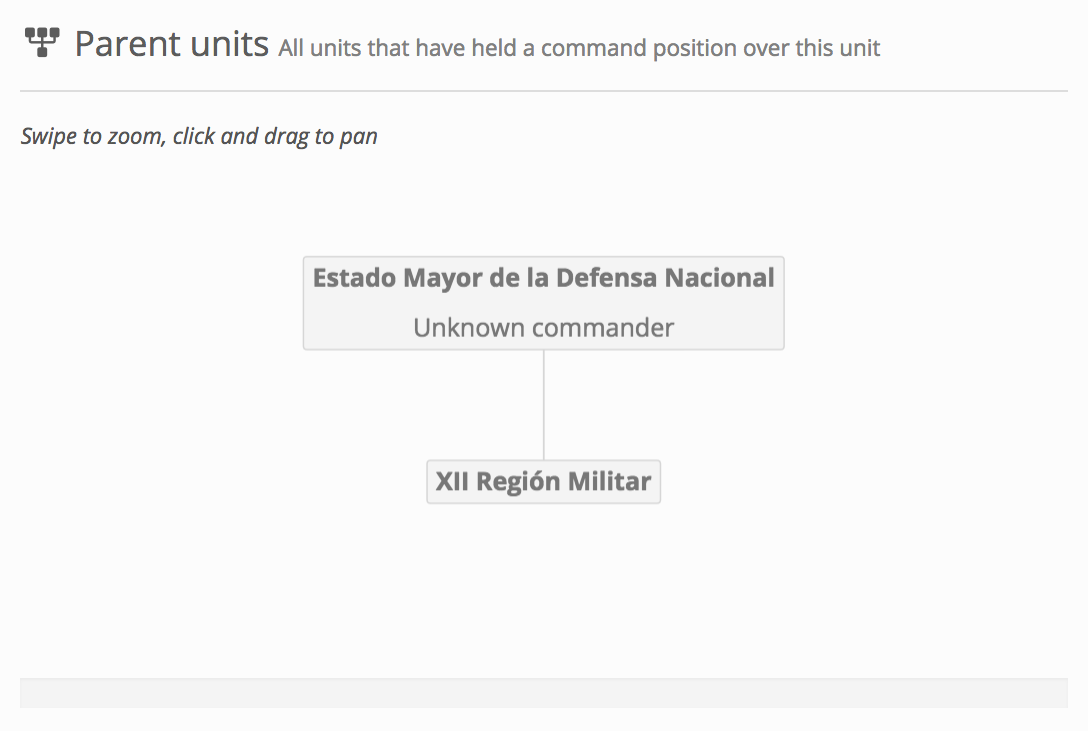
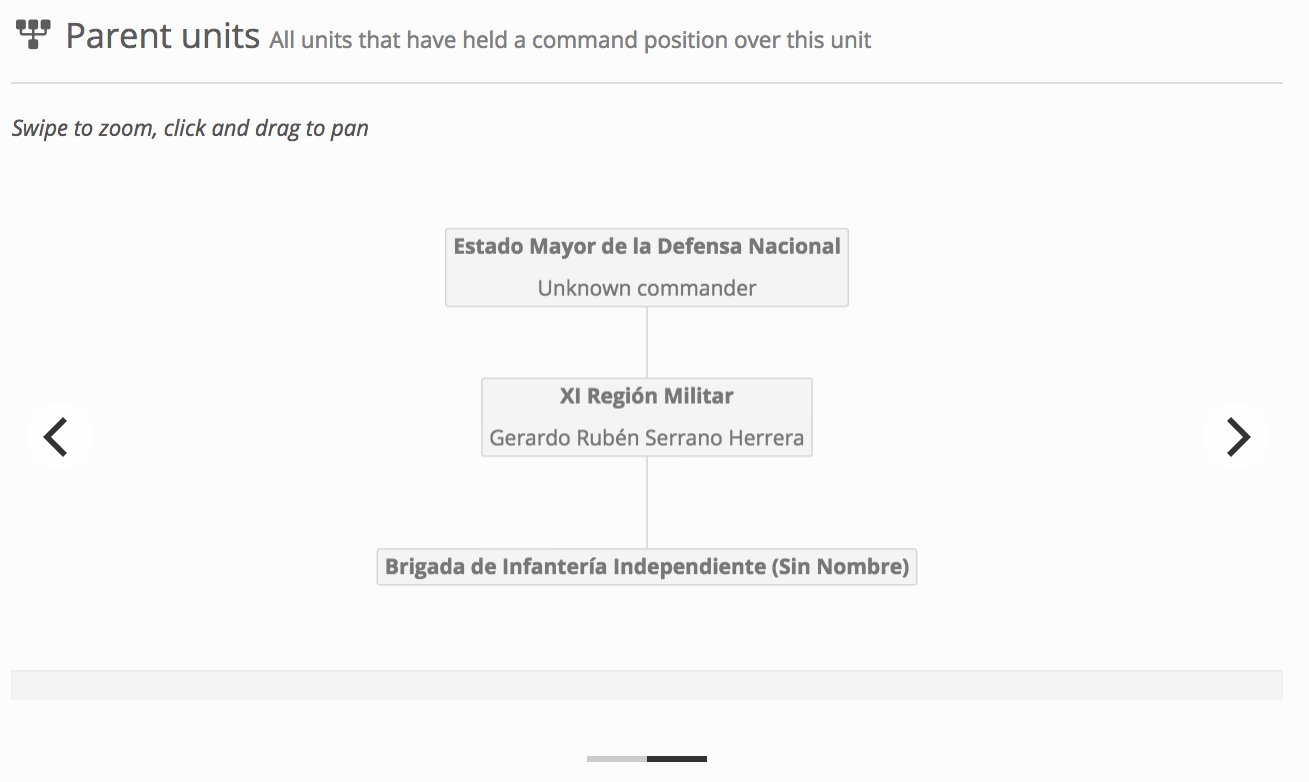
Fleshed out Unit record description

diff --git a/en/whowasincommand/orgrec.md b/en/whowasincommand/orgrec.md
@@ -1,37 +1,174 @@
-# Anatomy of an organization record
+# Anatomy of a Unit record
+
+This page gives an overview of the data you will find in a unit record on WhoWasInCommand. This includes descriptions of different sections of the unit page, the data fields used to create it and links to each field's documentation in this Research Handbook.
 
 ## Title area
 
 ![](/assets/org_record_anatomy_titlearea.png)
 
+This section contains key information about the identity of the unit. It also contains links to download and print actions for the displayed record. Hover over any value in the Title area to display a little coloured circle; clicking on this will display the sources and confidence rating for each value. 
+
+### Fields used in the Title area 
+
+The following fields are used in the Title Area:
+
+* [Organization: Name](/datamodel/organizations.md#organization_name)
+* [Organization: Aliases](/datamodel/organizations.md#organization_alias)
+* [Organization: Classifcation](/datamodel/organizations.md#organization_classification)
+* [Organization: Country](/datamodel/organizatios.md#organization_country)
+
+When a field is empty, it will not be displayed in the Title area. 
+
 ## Content sidebar
+
+The content sidebar is a navigation aid. It provides quick links to different parts of the page. The items inside the content sidebar indicate what sort of data is available about this unit. For exmaple, if there is no item for "Incidents", then there is no data available about incidents involving this unit.
 
 ![](/assets/org_record_anatomy_content_sidebar.png)
 
 ## Areas of Operation
 
+The areas of operation sections contains a map and table that describe where an organization has operated in some manner. Clicking on the highlighted areas of the map will display the name of an area of operation. Grab the map to drag/pan it around. Swipe or use the `+` and `-` controls on the map to zoom in or zoom out. Hover over any value in the table and a little coloured circle will appear. Click on this to view the sources and confidence rating for that value. 
+
 ![](/assets/org_record_anatomy_areas_of_operation.png)
+
+### Fields used in the Areas of Operations section
+
+The following fields are used in the Area of Operations section:
+
+* [Area of Operations: OSM object name](/datamodel/organizations.md#organization_aoo_osm_name)
+* [Area of Operations: OSM object ID number](/datamodel/organizations.md#organization_aoo_osm_id)
+* [Area of Operations: Date first cited](/datamodel/organizations.md#organization_aoo_date_first_cited)
+* [Area of Operations: Start date?](/datamodel/organizations.md#organization_aoo_date_last_cited_is_start)
+* [Area of Operations: Date last cited](/datamodel/organizations.md#organization_aoo_date_last_cited)
+* [Area of Operations: Open-ended?](/datamodel/organizations.md#organization_aoo_open_ended)
+
+The Areas of Operation section will display where there is a valid Area of Operations record that contains values for `Area of Operations: OSM object name` and `Area of Operations: OSM object ID number`. Otherwise, the section will not display.
 
 ## Sites
 
+This section contains a map and a table that describe sites associated with the organization. Clicking on the pins plotted on the map will display the name of the site. Grab the map to drag/pan it around. Swipe or use the `+` and `-` controls on the map to zoom in or zoom out. Hover over any value in the table and a little coloured circle will appear. Click on this to view the sources and confidence rating for that value.
+
 ![](/assets/org_record_anatomy_sites.png)
+
+### Fields used in the Sites section
+
+The following fields are used in the Site sections:
+
+* [Site: Exact Location (Latitude or OSM Node Name)](/datamodel/organizations.md#organization_site_ex_loc_name)
+* [Site: Exact Location (Longitude or OSM Node ID)](/datamodel/organizations.md#organization_site_ex_loc_id)
+* [Site: Settlement (OSM Node Name](/datamodel/organizations.md#organization_site_settlement_name)
+* [Site: Settlement (OSM ID)](/datamodel/organizations.md#organization_site_settlement_id)
+* [Site: Top Administrative Area (OSM Name)](/datamodel/organizations.md#organization_site_top_admin_name)
+* [Site: Top Administrative Area (OSM ID number)](/datamodel/organizations.md#organization_site_top_admin_id)
+* [Site: Date of first citation](/datamodel/organizations.md#organization_site_date_first_cited)
+* [Site: Founding date?](/datamodel/organizations.md#organization_site_date_first_cited_founding)
+* [Site: Date last cited](/datamodel/organizations.md#organization_site_date_last_cited)
+* [Site: open-ended?](/datamodel/organizations.md#organization_site_date_last_cited_open_ended)
+
+The Sites section will display where there is a valid Site record. Otherwise, the section will not display on the unit record.
 
 ## Memberships
 
+This section contains a table indicating whether the organization has been a member of internal/national joint operations, international peacekeeping missions, or other multi-unit deployments. Hover over any value in the table and a little coloured circle will appear. Click on this to view the sources and confidence rating for that value.
+
 ![](/assets/org_record_anatomy_memberships.png)
 
-## Parents
+### Fields used in the Memberships section
+
+The following fields are used in the memberships section:
+
+ * [Organization Membership](/datamodel/organizations.md#organization_membership)
+ * [Membership: Date first cited](/datamodel/organizations.md#organization_membership_date_first_cited)
+ * [Membership: Start date?](/datamodel/organizations.md#organization_membership_is_start)
+ * [Membership: Date of last citation](/datamodel/organizations.md#organization_membership_date_last_cited)
+ * [Membership: Open-ended?](/datamodel/organizations.md#organization_membership_open_ended)
+
+Where a unit has no memberships attached to it, the memberships section will not display on the unit record.
+
+## Parent Units
+
+The parent units section displays an interactive chart. This shows the links between all units known to be above the present one in the overall organizational hierarchy of that security force, right up to the Commander in Chief or equivalent. The chart is drawn using parent relationships that are classified as `command` (rather than `informal` or `administrative`). They are drawn at the last cited or end date of the parent relationship. This date is displayed at the bottom of the chart. Where a unit has different parents at different times, a chart is drawn for each relationship: swiping left or right, or using the arrows at each side, displays these.
 
 ![](/assets/org_record_anatomy_parents.png)
 
+### Fields used in the Parent Units section
+
+The following fields are using the parent units sections:
+
+* [Organization: Name](/datamodel/organizations.md#organization_name)
+* [Organization: Parent](/datamodel/organizations.md#organization_parent_name)
+* [Parent relationship: Classification](/datamodel/organizations.md#organization_parent_classification)
+* [Parent relationship: Date first cited](/datamodel/organizations.md#organization_parent_date_first_cited)
+* [Parent relationship: start date?](/datamodel/organizations.md#organization_parent_date_first_cited_is_start)
+* [Parent organization: date last cited](/datamodel/organizations.md#organization_parent_date_last_cited)
+* [Parent relationship: Open-ended?](/datamodel/organizations.md#organization_parent_open_ended)
+
+Where a unit does not have a parent relationship, this section will not be displayed in the unit record.
+
 ## Subsidiaries
+
+The subsidiaries section contains a table describing all units known to have been immediately below the current unit in the overall organizational hierarchy of that security force. Hover over any value in tables to display a little coloured circle; clicking on this will display the sources and confidence rating for each value. 
 
 ![](/assets/org_record_anatomy_subsidiaries.png)
 
+### Fields used in the Subsidiaries section
+
+The following fields are used in the subsidiaries section:
+
+* [Organization: Name](/datamodel/organizations.md#organization_name)
+* [Organization: Aliases](/datamodel/organizations.md#organization_aliases)
+* [Organization: Classification](/datamodel/organizations.md#organization_classification)
+* [Organization: Parent](/datamodel/organizations.md#organization_parent_name)
+* [Parent relationship: Classification](/datamodel/organizations.md#organization_parent_classification)
+* [Parent relationship: Date first cited](/datamodel/organizations.md#organization_parent_date_first_cited)
+* [Parent relationship: start date?](/datamodel/organizations.md#organization_parent_date_first_cited_is_start)
+* [Parent organization: date last cited](/datamodel/organizations.md#organization_parent_date_last_cited)
+* [Parent relationship: Open-ended?](/datamodel/organizations.md#organization_parent_open_ended)
+
+Where a unit has no subsidaires, this section will not be displayed in the unit record.
+
 ## Personnel
+
+The personnel section displays a table showing all persons affiliated to this unit at any time in command, administrative and other roles. Hover over any value in the table to display a little coloured circle; clicking on this will display the sources and confidence rating for each value. 
 
 ![](/assets/org_record_anatomy_personnel.png)
 
+### Fields used in the Personnel section
+
+The following fields are used in the personnel section:
+
+* [Person: Name](/datamodel/persons.md#person_name)
+* [Person: Organization](/datamodel/persons.md#person_organization)
+* [Person: Role](/datamodel/persons.md#person_role)
+* [Person: Title](/datamodel/persons.md#person_title)
+* [Person: Rank](/datamodel/persons.md#person_rank)
+* [Person: First citation](/datamodel/persons.md#person_date_first_cited)
+* [Person: Start date?](/datamodel/persons.md#person_date_first_cited_is_start)
+* [Person: First citation context](/datamodel/persons.md#person_date_first_cited_context)
+* [Person: Last citation](/datamodel/persons.md#person_date_last_cited)
+* [Person: End date?](/datamodel/persons.md#person_date_last_cited_is_end)    
+
+Where no persons in the dataset are members of a unit, this section will not be displayed in the unit record.
+
+## Incidents
+
+The incidents section displays a list of incidents of alleged human rights violations that sources allege the unit has committed. However over either the date or the incident description to display a little coloured circle that when clicked will show the sources and confidence rating for this data.
+
+![](/assets/org_record_anatomy_incidents.png)
+
+### Fields used in the Incident section
+
+The following fields are used in the incident section:
+
+* [Event: Start date](/datamodel/events.md#event_start_date)
+* [Event: End date](/datamodel/events.md#event_end_date)
+* [Event: Description](/datamodel/events.md#event_description)
+* [Event: Perpetrator organization](/datamodel/events.md#event_perpetrator_organization)
+
+If a source has not made an allegation against a unit, this section will not be displayed in the unit record.
+
 ## Changelog
+
+The changelog section shows when the data include in this record were first added and subsequently updated. This data is generated by the software that powers WhoWasInCommand whenever a new data import is run.
 
 ![](/assets/org_record_anatomy_changelog.png)
